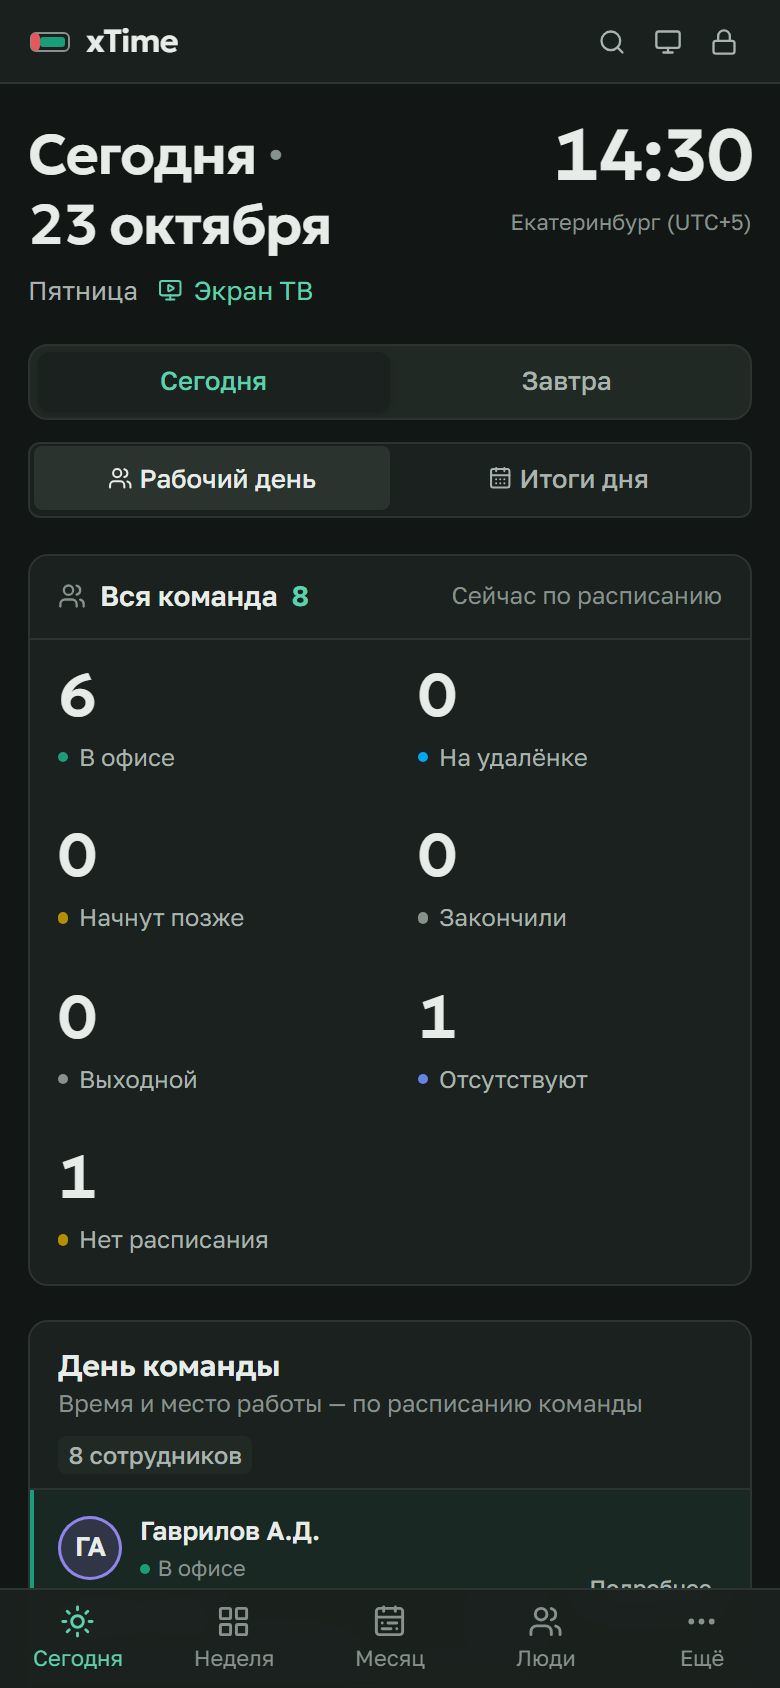
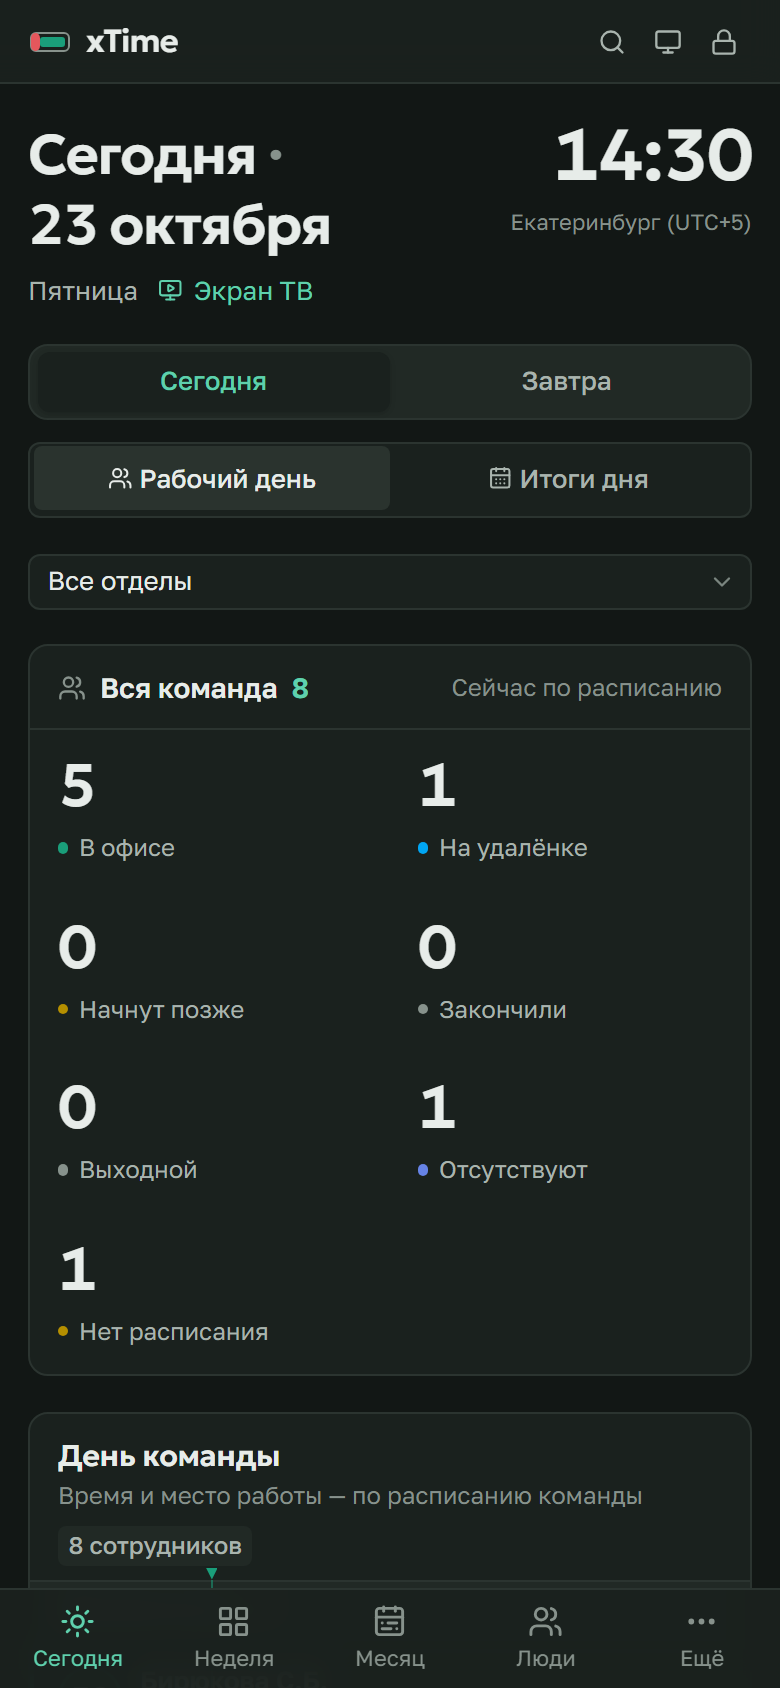
fix(web): обновил линию текущего времени на экранах команды
- заменил красную полосу тонкой акцентной линией с подписью времени
- убрал наложение подписи на отметки шкалы
- сохранил размещение двадцати сотрудников на ТВ и обновил скриншоты

diff --git a/frontend/src/pages/tv/tv.css b/frontend/src/pages/tv/tv.css
@@ -45,12 +45,12 @@
 .tv-screen [data-tone="absent"] { --tv-tone: var(--absence-ink); }
 .tv-stat-label i, .tv-person-status i, .tv-connection i { width: 6px; height: 6px; flex-shrink: 0; border-radius: 50%; background: var(--tv-tone, var(--accent-ink)); }
 .tv-team { display: flex; flex-direction: column; min-height: 0; min-width: 0; overflow: hidden; }
-.tv-section-heading { display: flex; align-items: center; justify-content: space-between; gap: 12px; padding: 12px 20px 8px; flex-shrink: 0; }
+.tv-section-heading { display: flex; align-items: center; justify-content: space-between; gap: 12px; padding: 8px 20px; flex-shrink: 0; }
 .tv-section-heading h2 { font-size: 1.05em; font-weight: 600; }
 .tv-section-heading p { font-size: .7em; color: var(--ink-3); margin-top: 3px; }
 .tv-section-heading > span { color: var(--ink-2); font-size: .7em; padding: 3px 7px; border-radius: var(--radius-sm); background: var(--surface-2); white-space: nowrap; }
 .tv-columns, .tv-person { display: grid; grid-template-columns: clamp(205px, 14vw, 240px) minmax(0, 1fr); column-gap: 14px; padding-inline: 20px; }
-.tv-columns { align-items: center; padding-block: 4px 10px; font-size: .7em; color: var(--ink-3); flex-shrink: 0; }
+.tv-columns { align-items: center; min-height: 40px; padding-block: 4px 14px; font-size: .7em; color: var(--ink-3); flex-shrink: 0; }
 .tv-axis { height: 18px; font-size: 12px; line-height: 18px; margin-inline: 6px; }
 .tv-timeline { flex: 1; min-height: 0; }
 .tv-people { height: 100%; min-height: 0; display: grid; border-top: 1px solid var(--line); }
@@ -73,7 +73,7 @@
 .tv-person-day-label { padding: 5px 10px; border-radius: var(--radius-md); color: var(--ink-2); background: var(--surface-2); font-size: .8em; }
 .tv-team-foot { display: flex; align-items: center; justify-content: space-between; gap: 12px; padding: 8px 20px; border-top: 1px solid var(--line); color: var(--ink-3); font-size: .65em; flex-shrink: 0; }
 .tv-team-foot > span:first-child { display: flex; align-items: center; gap: 7px; }
-.tv-team-foot i { width: 3px; height: 14px; background: var(--late); }
+.tv-team-foot i { width: 1px; height: 14px; background: var(--accent); }
 .tv-upcoming { display: flex; flex: 1; flex-direction: column; min-height: 0; padding: 16px; overflow: hidden; }
 .tv-upcoming h2 { display: flex; align-items: center; gap: 8px; flex-shrink: 0; font-size: .9em; font-weight: 600; }
 .tv-upcoming h2 svg { width: 18px; height: 18px; flex-shrink: 0; color: var(--ink-3); }
@@ -120,7 +120,7 @@
   .tv-clock > span { max-width: 145px; font-size: 10px; }
   .tv-section-heading { padding: 10px; }
   .tv-section-heading p, .tv-section-heading > span { font-size: 10px; }
-  .tv-columns { display: none; }
+  .tv-columns, .tv-screen .team-now-label { display: none; }
   .tv-person { grid-template-columns: 1fr; gap: 8px; padding: 8px 12px; }
   .tv-person h3 { font-size: 18px; }
   .tv-person-location svg { display: none; }

diff --git a/frontend/src/components/domain/DayStrip.tsx b/frontend/src/components/domain/DayStrip.tsx
@@ -1,3 +1,5 @@
+import { useEffect, useRef, useState } from "react";
+
 import type { DayCell } from "@/api/types";
 import { DAY, type Axis } from "@/lib/axis";
 import { cn } from "@/lib/cn";
@@ -87,18 +89,32 @@ export function DayStrip({
 }
 
 /** Подписи часов над колонкой полос. */
-export function AxisTicks({ axis, className }: { axis: Axis; className?: string }) {
+export function AxisTicks({ axis, now, className }: { axis: Axis; now?: number | null; className?: string }) {
+  const host = useRef<HTMLDivElement>(null);
+  const [width, setWidth] = useState(0);
+  const showNow = now != null && now >= axis.start && now <= axis.end;
+  useEffect(() => {
+    const element = host.current;
+    if (!element || !showNow) return;
+    const observer = new ResizeObserver(() => setWidth(element.clientWidth));
+    observer.observe(element);
+    return () => observer.disconnect();
+  }, [showNow]);
   const hours = (axis.end - axis.start) / 3600;
   const step = hours > 12 ? 4 : hours > 6 ? 2 : 1;
   const ticks: number[] = [];
   for (let h = Math.ceil(axis.start / 3600); h * 3600 <= axis.end; h += step) ticks.push(h);
   return (
-    <div className={cn("relative h-3 text-[10px] leading-3 text-ink-3 tnum", className)} aria-hidden>
+    <div ref={host} className={cn("relative h-3 text-[10px] leading-3 text-ink-3 tnum", className)} aria-hidden>
       {ticks.map((h) => (
         <span
           key={h}
           className="absolute -translate-x-1/2"
-          style={{ left: `${((h * 3600 - axis.start) / (axis.end - axis.start)) * 100}%` }}
+          style={{
+            left: `${((h * 3600 - axis.start) / (axis.end - axis.start)) * 100}%`,
+            // Не оставляем половину цифры выглядывать из-под метки текущего времени.
+            visibility: showNow && width > 0 && Math.abs(h * 3600 - now) * width / (axis.end - axis.start) < 42 ? "hidden" : undefined,
+          }}
         >
           {h % 24}
         </span>

diff --git a/frontend/src/index.css b/frontend/src/index.css
@@ -171,25 +171,42 @@
 .team-now-line {
   position: absolute;
   inset-block: 0;
-  width: 3px;
+  width: 1px;
   transform: translateX(-50%);
-  background: var(--late);
-  box-shadow: 0 0 0 1px var(--surface), 0 0 8px color-mix(in srgb, var(--late) 35%, transparent);
+  background: color-mix(in srgb, var(--accent) 55%, transparent);
   pointer-events: none;
   z-index: 5;
 }
-.team-now-line::before, .team-now-line::after {
+.team-now-line::before {
   content: "";
   position: absolute;
   left: 50%;
-  width: 7px;
-  height: 7px;
-  border-radius: 50%;
-  background: var(--late);
+  top: -6px;
+  width: 6px;
+  height: 6px;
+  background: var(--accent);
+  clip-path: polygon(0 0, 100% 0, 50% 100%);
   transform: translateX(-50%);
 }
-.team-now-line::before { top: 0; }
-.team-now-line::after { bottom: 0; }
+.team-now-label {
+  position: absolute;
+  bottom: calc(100% + 6px);
+  left: 50%;
+  transform: translateX(-50%);
+  padding: 3px 8px;
+  border: 1px solid color-mix(in srgb, var(--accent) 30%, var(--line));
+  border-radius: 6px;
+  background: var(--surface);
+  color: var(--accent-ink);
+  box-shadow: 0 1px 3px #0000000a;
+  font-size: 14px;
+  font-weight: 650;
+  line-height: 20px;
+  white-space: nowrap;
+}
+@media (max-width: 639px) {
+  .team-now-label { display: none; }
+}
 
 @media (prefers-reduced-motion: reduce) {
   *,

diff --git a/frontend/src/pages/TvPage.tsx b/frontend/src/pages/TvPage.tsx
@@ -166,7 +166,7 @@ function Team({ rows, now }: { rows: TodayRow[]; now: number }) {
       <span>{pages > 1 ? `Страница ${currentPage + 1} из ${pages}` : count(rows.length, ["сотрудник", "сотрудника", "сотрудников"])}</span>
     </div>
     {rows.length ? <>
-      <div className="tv-columns"><span>Сотрудник</span><AxisTicks axis={axis} className="tv-axis" /></div>
+      <div className="tv-columns"><span>Сотрудник</span><AxisTicks axis={axis} now={now} className="tv-axis" /></div>
       <TeamTimeline axis={axis} now={now} className="tv-timeline">
         <div ref={people} className="tv-people" data-testid="tv-people" style={{ gridTemplateRows: shownGroups.flatMap((group) => ["20px", `repeat(${group.rows.length}, minmax(0, 1fr))`]).join(" ") }}>
           {shownGroups.map((group) => <Fragment key={group.department}>

diff --git a/frontend/src/pages/TodayPage.tsx b/frontend/src/pages/TodayPage.tsx
@@ -223,9 +223,9 @@ export default function TodayPage() {
               >
                 {visible.length ? (
                   <>
-                    <div className="grid grid-cols-[minmax(10rem,13rem)_1fr_5.5rem] gap-3 px-4 pb-2 max-sm:hidden">
+                    <div className="grid min-h-10 grid-cols-[minmax(10rem,13rem)_1fr_5.5rem] items-center gap-3 px-4 pb-3 max-sm:hidden">
                       <span className="text-[11px] text-ink-3">Сотрудник</span>
-                      <AxisTicks axis={axis} />
+                      <AxisTicks axis={axis} now={tomorrow ? null : data.now_sec} />
                       <span />
                     </div>
                     <TeamTimeline axis={axis} now={tomorrow ? null : data.now_sec}>

diff --git a/frontend/src/components/domain/TeamTimeline.tsx b/frontend/src/components/domain/TeamTimeline.tsx
@@ -38,6 +38,6 @@ export function TeamTimeline({ children, axis, now, className }: {
       role="img"
       aria-label={`Текущее время: ${clock(now)}`}
       style={{ left: track.left + track.width * position }}
-    /> : null}
+    ><span className="team-now-label tnum" aria-hidden>{clock(now)}</span></div> : null}
   </div>;
 }
